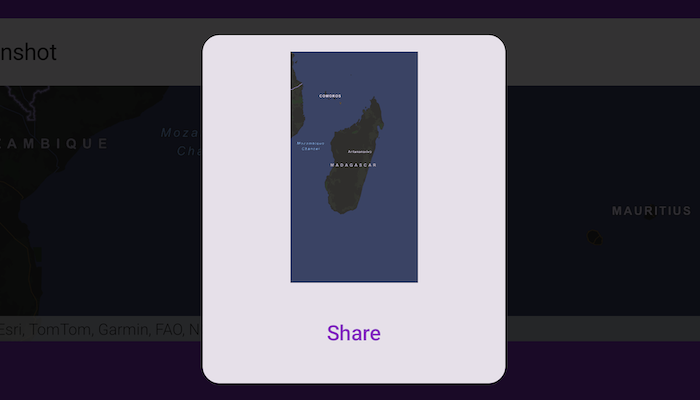
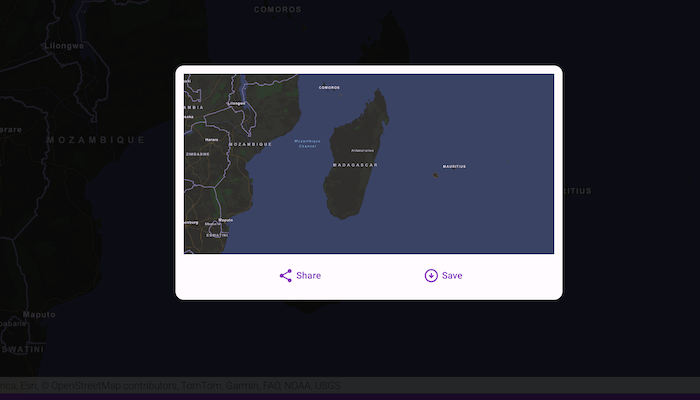
update README and screenshot

diff --git a/samples/take-screenshot/README.md b/samples/take-screenshot/README.md
@@ -6,11 +6,11 @@ Take a screenshot of the map.
 
 ## Use case
 
-GIS users may want to export a screenshot of a map to enable sharing as an image or printing.
+GIS users may want to export or save a screenshot of a map to enable sharing as an image or printing.
 
 ## How to use the sample
 
-Pan and zoom to find an interesting location, then use the button to take a screenshot. The screenshot will be displayed. You can share the screenshot by tapping the share button.
+Pan and zoom to find an interesting location, then use the button to take a screenshot. The screenshot will be displayed. You can share the screenshot by tapping the share button. Or save it by tapping the save button.
 
 ## How it works
 
@@ -18,6 +18,7 @@ Pan and zoom to find an interesting location, then use the button to take a scre
 2. Call `exportImage()` to get a `BitmapDrawable`.
 3. Save screenshot into a File using `FileOutputStream`.
 4. Share the file using `context.startActivity`.
+5. Save the file using `context.contentResolver`.
 
 ## Relevant API
 
